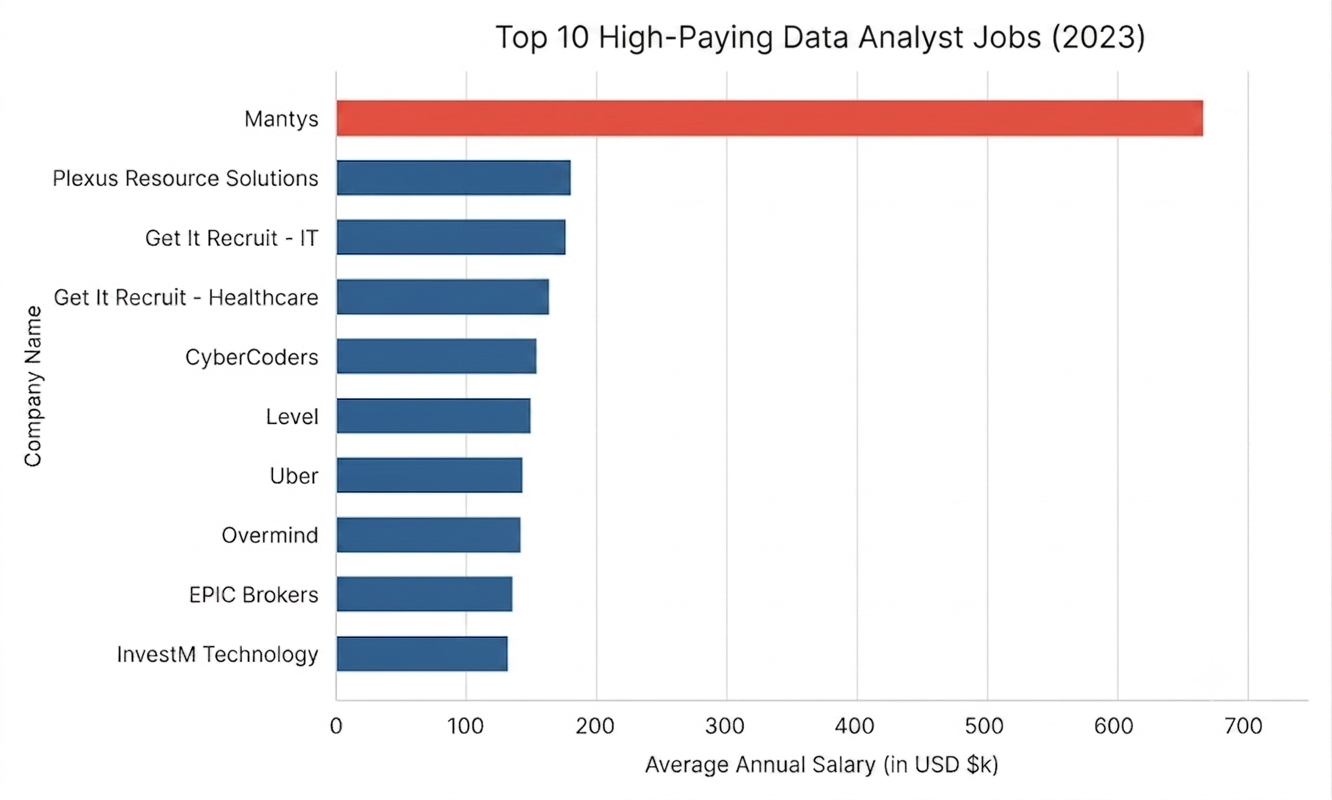
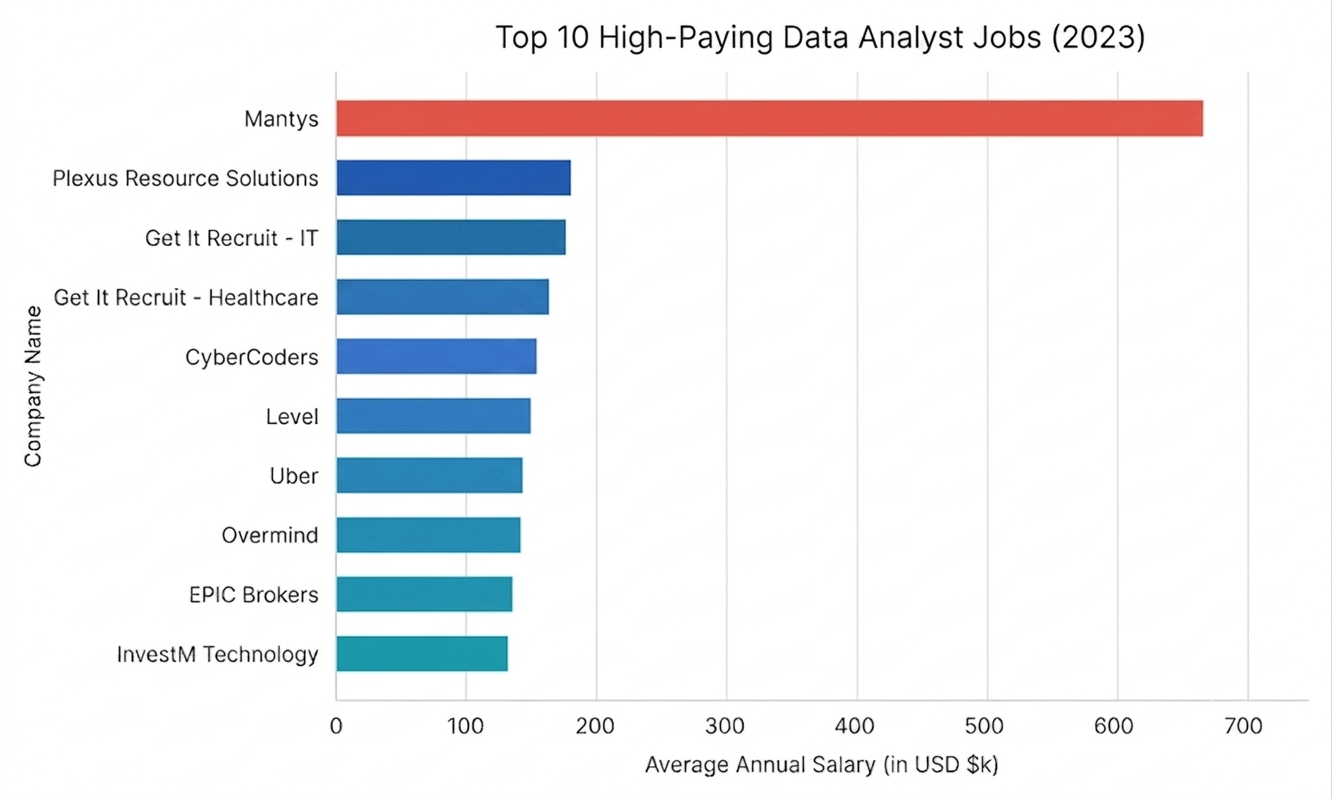
yes

Changed region(s): [[0.2462, 0.2812, 0.4309, 0.8438], [0.2462, 0.1875, 0.4309, 0.25]]

diff --git a/README.md b/README.md
@@ -138,6 +138,8 @@ ORDER BY
 
 - Collaboration tools (Jira, Confluence, GitLab) highlight that senior Data Analysts must work closely with technical and management teams.
 
+![Top_Paying_Data_Analyst_Jobs](images\Top_10_High_Demand_Skills.png)
+
 ## 3. In-Demand Skills for Data Analysts
 
 This query helped identify the skills most frequently requested in job postings, directing focus to areas with highest demand.
